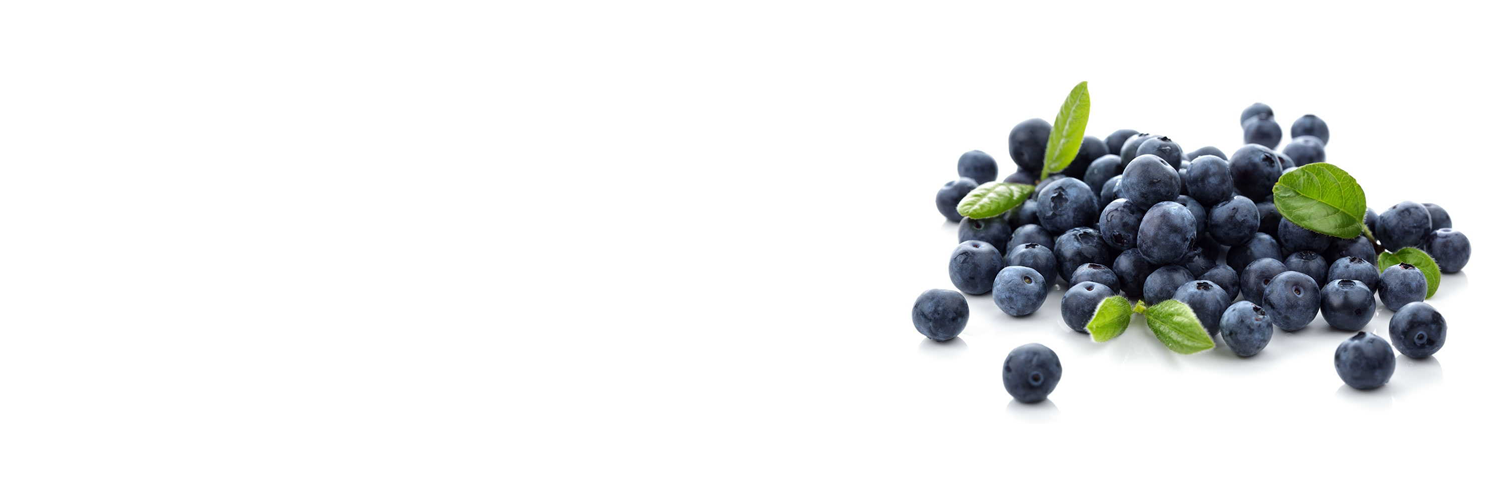
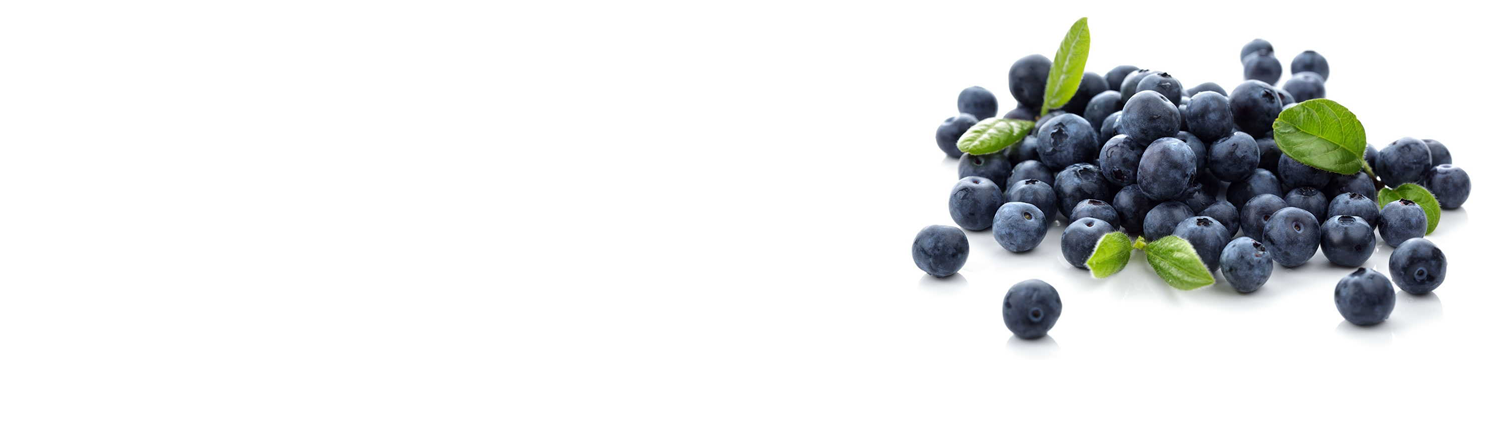
sub

Changed region(s): [[0.5854, 0.0298, 0.9859, 0.8349]]

diff --git a/css/main.css b/css/main.css
@@ -259,9 +259,9 @@ nav {
     margin-top: 60px; }
 
 #subscribe {
-  min-height: 48vh;
+  min-height: 38vh;
   background-image: url("../img/sub-bg.png");
-  background-size: cover;
+  background-position: 40% 0;
   background-repeat: no-repeat; }
   #subscribe h1 {
     font-family: 'Concert One', cursive;
@@ -274,9 +274,19 @@ nav {
     max-width: 500px;
     margin: 40px 0; }
   #subscribe input[type="text"] {
-    width: 500px;
+    width: 550px;
     height: 50px;
     border: 1px solid #464646;
     padding-left: 15px; }
+  #subscribe input[type="submit"] {
+    width: 200px;
+    height: 50px;
+    margin-top: 10px;
+    background-color: #97BA2C;
+    border: 0;
+    color: #FFF;
+    font-size: 20px;
+    cursor: pointer;
+    box-shadow: 2px 4px 7px rgba(0, 0, 0, 0.4); }
 
[2 lines of base64/hex data omitted]

diff --git a/scss/main.scss b/scss/main.scss
@@ -188,9 +188,9 @@ nav{
 }
 
 #subscribe{
-  min-height: 48vh;
+  min-height: 38vh;
   background-image: url("../img/sub-bg.png");
-  background-size: cover;
+  background-position: 40% 0;
   background-repeat: no-repeat;
   h1{
     font-family: 'Concert One', cursive;
@@ -203,12 +203,14 @@ nav{
     max-width: 500px;
     margin: 40px 0;
   }
-  // input:-moz-placeholder {color: #00cc00}
-  // input::-webkit-input-placeholder {color: #00cc00}
+
   input[type="text"]{
-    width: 500px;
+    width: 550px;
     height: 50px;
     border: 1px solid #464646;
     padding-left: 15px;
+  }
+  input[type="submit"]{
+    @include button(#97BA2C, #FFF);
   }
 }

diff --git a/index.html b/index.html
@@ -91,7 +91,7 @@
             Dolor sit amet, consectetur adipisicing elit, sed do eiusmod tempor incididunt ut labore et dolore magna aliqua. Ut enim ad minim veniam.
           </p>
           <input type="text" name="subscribe" placeholder="Your email address..."/>
-          <input type="submit" value="subscribe" />
+          <input type="submit" value="SUBSCRIBE" />
         </div>
         <script src="//ajax.googleapis.com/ajax/libs/jquery/1.11.2/jquery.min.js"></script>
         <script>window.jQuery || document.write('<script src="js/vendor/jquery-1.11.2.min.js"><\/script>')</script>
